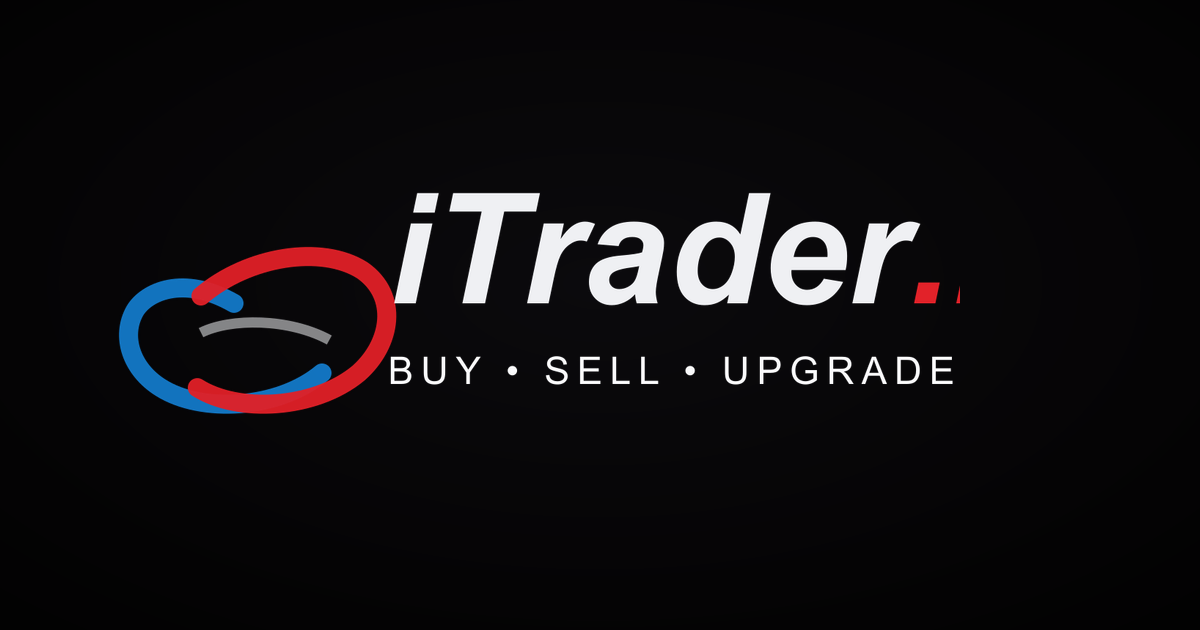
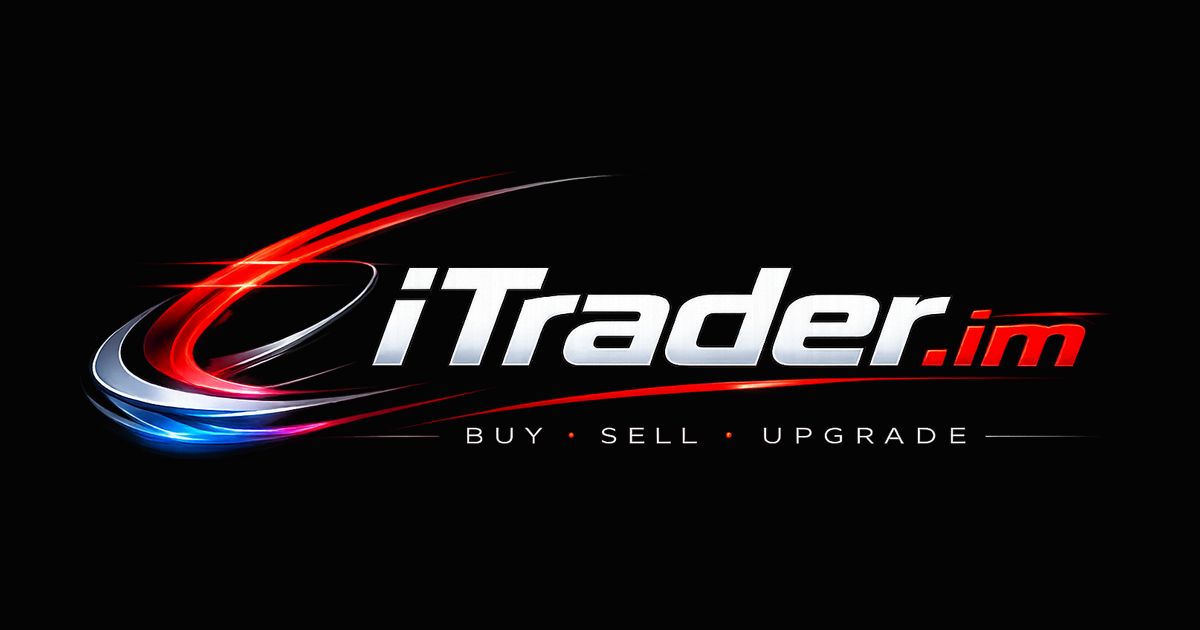
feat: update __tests__, lib, public, and docs

Changed region(s): [[0.0617, 0.2714, 0.925, 0.7238], [0.6475, 0.6635, 0.8017, 0.7238], [0.4933, 0.6635, 0.5858, 0.7238]]

diff --git a/lib/seo/page-metadata.ts b/lib/seo/page-metadata.ts
@@ -3,7 +3,7 @@ import type { RuntimeEnv } from "@/lib/runtime-env";
 import { isSearchIndexingEnabled } from "@/lib/seo/indexing-policy";
 import { buildCanonicalUrl } from "@/lib/seo/structured-data";
 
-export const DEFAULT_SOCIAL_IMAGE_PATH = "/og/itrader-social.png";
+export const DEFAULT_SOCIAL_IMAGE_PATH = "/og/itrader-social.png?v=official-20261003";
 export const DEFAULT_SOCIAL_IMAGE_WIDTH = 1200;
 export const DEFAULT_SOCIAL_IMAGE_HEIGHT = 630;
 export const DEFAULT_SOCIAL_IMAGE_ALT = "iTrader.im, the Isle of Man vehicle marketplace";

diff --git a/__tests__/app/search-metadata.test.ts b/__tests__/app/search-metadata.test.ts
@@ -73,7 +73,7 @@ describe("search metadata robots", () => {
     );
     const images = metadata.openGraph?.images;
     const image = Array.isArray(images) ? images[0] : images;
-    expect(image).toMatchObject({ url: "/og/itrader-social.png", width: 1200, height: 630 });
+    expect(image).toMatchObject({ url: "/og/itrader-social.png?v=official-20261003", width: 1200, height: 630 });
   });
 
   it("noindexes a category page on preview even when the category is valid", async () => {

diff --git a/__tests__/app/dealer-profile-page.test.tsx b/__tests__/app/dealer-profile-page.test.tsx
@@ -189,7 +189,7 @@ describe("DealerProfilePage", () => {
     );
     expect(metadata.robots).toEqual({ index: true, follow: true });
     expect(metadata.openGraph?.images).toEqual([
-      expect.objectContaining({ url: "/og/itrader-social.png", width: 1200, height: 630 }),
+      expect.objectContaining({ url: "/og/itrader-social.png?v=official-20261003", width: 1200, height: 630 }),
     ]);
     expect(findUniqueMock).toHaveBeenCalledWith(
       expect.objectContaining({

diff --git a/lib/seo/listing-json-ld.ts b/lib/seo/listing-json-ld.ts
@@ -73,7 +73,7 @@ export function buildSiteIdentityJsonLd(origin: string) {
         "@id": `${origin}/#organization`,
         name: "iTrader.im",
         url: site,
-        logo: `${origin}/og/itrader-social.png`,
+        logo: `${origin}/images/logo-itrader-hq.png`,
       },
       {
         "@type": "WebSite",

diff --git a/docs/staging-transition/SOCIAL-IMAGE-REVIEW.md b/docs/staging-transition/SOCIAL-IMAGE-REVIEW.md
@@ -1,0 +1,14 @@
+# Social image review — 3 October 2026
+
+The SEO pack added one image, `public/og/itrader-social.png` (1200×630). Visual review found a simplified replacement brand mark and a clipped `.im` ending. The owner requested replacement with the existing official artwork.
+
+The replacement uses `public/images/logo-itrader-hq.png` (1399×392), proportionally resized to 1040×291 and centred on an opaque 1200×630 `#050405` background. No lettering or logo was redrawn. The metadata URL adds `?v=official-20261003` so social crawlers see a new image URL. Existing platform share caches may still need refreshing. Organisation structured data now refers to the official logo asset rather than the wide social card.
+
+Image selection elsewhere is unchanged:
+
+- Homepage, search, category and marketing landing pages use the shared social card.
+- Listing pages use the first ordered listing photo with the existing Cloudinary social transformation, falling back to the shared card if no usable photo exists.
+- Dealer pages use their uploaded HTTPS logo, falling back to the shared card.
+- Favicons and app icons were not changed by the SEO pack.
+
+Follow-up issues found during this review: dealer logos are not padded or normalised for wide cards; external listing image URLs can be declared as 1200×630 without matching those dimensions; and a placeholder first photo can be selected ahead of the branded fallback. These require separate image-selection work and are not fixed by replacing the shared card. No new advertising creatives or campaigns were created.
